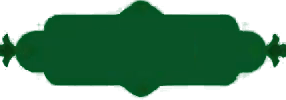
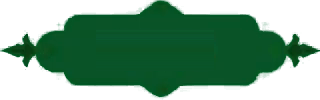
Match source timer frame and score panels

diff --git a/tests/solitaire.spec.js b/tests/solitaire.spec.js
@@ -65,7 +65,7 @@ test('mobile deal, stock draw, undo, and a legal hinted move', async ({ page }) 
   await expect(page.locator('.time-stat')).toHaveAttribute('aria-label', 'Time');
   await expect(page.locator('.timer-frame-source')).toBeVisible();
   await expect(page.locator('.timer-frame-vector')).toHaveCSS('display', 'none');
-  await expect.poll(() => page.locator('.timer-frame-source').evaluate((image) => [image.complete, image.naturalWidth, image.naturalHeight])).toEqual([true, 286, 100]);
+  await expect.poll(() => page.locator('.timer-frame-source').evaluate((image) => [image.complete, image.naturalWidth, image.naturalHeight])).toEqual([true, 320, 100]);
   await expect.poll(() => page.locator('.stat-digit').evaluateAll((images) => images.every((image) => image.complete && image.naturalWidth === 21 && image.naturalHeight === 31))).toBe(true);
   const timerDigitHashes = await page.evaluate(async () => Promise.all(Array.from({ length: 10 }, async (_, digit) => {
     const response = await fetch(`/assets/ui/timer-digit-${digit}.png`);
@@ -319,10 +319,12 @@ async function runSourceOpeningReplay(page) {
     audio.play = (cue) => { window.audioCues.push(cue); return play(cue); };
   });
   const sourceTimerFrame = await page.locator('.timer-frame-source').boundingBox();
-  expect(sourceTimerFrame.x).toBeCloseTo(169.5, 1);
+  expect(sourceTimerFrame.x).toBeCloseTo(160, 1);
   expect(sourceTimerFrame.y).toBeCloseTo(145.2, 1);
-  expect(sourceTimerFrame.width).toBe(143);
+  expect(sourceTimerFrame.width).toBe(160);
   expect(sourceTimerFrame.height).toBe(50);
+  const sourceScorePanelColors = await page.locator('.stat:not(.time-stat)').evaluateAll((panels) => panels.map((panel) => getComputedStyle(panel).backgroundColor));
+  expect(sourceScorePanelColors).toEqual(['rgb(15, 95, 49)', 'rgb(15, 95, 49)']);
 
   const dragMove = async (sourcePile, sourceIndex, targetPile, targetIndex, dropCardOffset = 4) => {
     const sourceBox = await page.locator(`.pile-column[data-pile="${sourcePile}"] .playing-card[data-index="${sourceIndex}"]`).boundingBox();
@@ -490,6 +492,9 @@ test.describe('source-sized visual comparison', () => {
 
   test('source opening replay matches the 20-second score, move count, and exposed cards', async ({ page }) => {
     await runSourceOpeningReplay(page);
+    const timerTextBox = await page.locator('#time-value').boundingBox();
+    expect(timerTextBox.width).toBeCloseTo(51.5, 1);
+    expect(timerTextBox.height).toBeCloseTo(15.5, 1);
   });
 
   test('source Settings controls, support links, and scroll match the captured page', async ({ page }) => {
@@ -1695,7 +1700,7 @@ test('the board fits a 320px phone and the installed shell loads offline', async
   await page.goto('/');
   await page.evaluate(() => navigator.serviceWorker.ready);
   const cacheNames = await page.evaluate(() => caches.keys());
-  expect(cacheNames).toContain('solitaire-master-v63');
+  expect(cacheNames).toContain('solitaire-master-v64');
   await expect.poll(() => page.evaluate(async () => {
     const response = await fetch('/assets/audio/auto-collect-reference.wav');
     return response.ok && response.headers.get('content-type') === 'audio/x-wav';

diff --git a/src/styles.css b/src/styles.css
@@ -98,6 +98,8 @@ button:focus-visible { outline: 3px solid #f4d67a; outline-offset: 2px; }
 body[data-theme='felt'] .menu-button { border: 0; background: transparent; }
 body[data-theme='felt'] .menu-source-art { display: block; width: 100%; height: 100%; object-fit: fill; pointer-events: none; user-select: none; -webkit-user-drag: none; }
 body[data-theme='felt'] .menu-theme-icon { display: none; }
+body[data-theme='felt'] .stat:not(.time-stat) { background: rgb(15, 95, 49); }
+body[data-theme='felt'] .scorebar-flourish { visibility: hidden; }
 @media (min-resolution: 1.5dppx) {
   body[data-theme='felt'] .menu-source-art { width: 36px; height: 37px; transform: translate(-.5px, -.5px); }
 }
@@ -125,6 +127,8 @@ body[data-theme='felt'] .menu-theme-icon { display: none; }
 .timer-frame-vector { display: block; }
 body[data-theme='felt'] .timer-frame-source { display: block; }
 body[data-theme='felt'] .timer-frame-vector { display: none; }
+body[data-theme='felt'] .timer-frame-source { width: calc(100% + 56px); transform: translateX(calc(-50% - 1px)); }
+body[data-theme='felt'] #time-value { width: calc((100% + 56px) * .321875); }
 .timer-frame-shape { fill: rgba(18, 53, 25, .82); stroke: rgba(8, 40, 28, .52); stroke-width: 2; }
 .timer-frame-detail { fill: none; stroke: rgba(8, 72, 47, .82); stroke-width: 2.4; stroke-linecap: round; stroke-linejoin: round; }
 .timer-frame-jewel { fill: #165438; stroke: rgba(8, 40, 28, .62); stroke-width: 1.5; }

diff --git a/tools/extract_timer_frames.swift b/tools/extract_timer_frames.swift
@@ -25,7 +25,7 @@ for requestedTime in stride(from: start, through: end, by: step) {
         at: CMTime(seconds: requestedTime, preferredTimescale: 60_000),
         actualTime: &actualTime
     )
-    guard let timer = frame.cropping(to: CGRect(x: 340, y: 290, width: 286, height: 100)) else {
+    guard let timer = frame.cropping(to: CGRect(x: 320, y: 290, width: 320, height: 100)) else {
         throw NSError(domain: "TimerFrame", code: 1, userInfo: [NSLocalizedDescriptionKey: "Timer crop is outside the source frame"])
     }
     let png = NSBitmapImageRep(cgImage: timer).representation(using: .png, properties: [:])!

diff --git a/sw.js b/sw.js
@@ -1,4 +1,4 @@
-const CACHE = 'solitaire-master-v63';
+const CACHE = 'solitaire-master-v64';
 const CACHE_PREFIX = 'solitaire-master-v';
 const cardRanks = ['ace', '2', '3', '4', '5', '6', '7', '8', '9', '10', 'jack', 'queen', 'king'];
 const cardSuits = ['spades', 'hearts', 'diamonds', 'clubs'];

diff --git a/tools/extract_timer_glyphs.py b/tools/extract_timer_glyphs.py
@@ -21,7 +21,7 @@ SAMPLES = {
     "9": (695, 4),
     ":": (20, 2),
 }
-SLOT_X = (90, 114, 139, 147, 172)
+SLOT_X = (110, 134, 159, 167, 192)
 SLOT_WIDTH = (21, 21, 4, 21, 21)
 TEXT_Y = 34
 TEXT_HEIGHT = 31
@@ -35,8 +35,8 @@ def timer_frame(directories: list[Path], timestamp: int) -> Image.Image:
     if any(frame.read_bytes() != matches[0].read_bytes() for frame in matches[1:]):
         raise ValueError(f"Duplicate source frames for {timestamp}s differ: {matches}")
     image = Image.open(matches[0]).convert("RGB")
-    if image.size != (286, 100):
-        raise ValueError(f"{matches[0]} has size {image.size}, expected 286×100")
+    if image.size != (320, 100):
+        raise ValueError(f"{matches[0]} has size {image.size}, expected 320×100")
     return image
 
 
@@ -58,8 +58,8 @@ def main() -> None:
     args = parser.parse_args()
 
     base = Image.open(args.base).convert("RGBA")
-    if base.size != (286, 100):
-        raise ValueError(f"{args.base} has size {base.size}, expected 286×100")
+    if base.size != (320, 100):
+        raise ValueError(f"{args.base} has size {base.size}, expected 320×100")
     args.output.mkdir(parents=True, exist_ok=True)
 
     for glyph, (timestamp, slot) in SAMPLES.items():

diff --git a/tools/extract_timer_frame_source_art.py b/tools/extract_timer_frame_source_art.py
@@ -11,11 +11,11 @@ from PIL import Image
 ROOT = Path(__file__).resolve().parents[1]
 SOURCE = ROOT / "research" / "solitaire-master" / "gameplay-opening-2025" / "keyframes" / "target-pts-153600.png"
 OUTPUT = ROOT / "assets" / "ui" / "timer-frame-source.png"
-SOURCE_RECT = (340, 290, 626, 390)
+SOURCE_RECT = (320, 290, 640, 390)
 FELT = (11, 115, 63)
-TEXT_RECT = (76, 29, 194, 71)
-PANEL_SAMPLE_LEFT = range(54, 83)
-PANEL_SAMPLE_RIGHT = range(203, 233)
+TEXT_RECT = (96, 29, 214, 71)
+PANEL_SAMPLE_LEFT = range(34, 63)
+PANEL_SAMPLE_RIGHT = range(183, 213)
 
 
 def main() -> None:

diff --git a/docs/reference-study.md b/docs/reference-study.md
@@ -24,7 +24,7 @@ Keep an evidence ledger with the video URL, capture date, app version, duration,
 
 The official short now has a local source hash and a bit-verifiable frame ledger. The full-length portrait recording is also preserved locally but ignored by Git; only the selected 0–24 second opening window is under study at a time to avoid expanding the entire 17-minute source into hundreds of gigabytes of raw frames. The synchronized replica notes in the user's memory folder emphasize preserving exact source PTS, independent frame extraction, and a compact review of transition windows.
 
-The mobile visual pass compares source video frames with a 442×960 CSS viewport rendered at 2× (884×1920); the source-opening Playwright test scopes `deviceScaleFactor: 2` to that test, leaving the rest of the mobile interaction suite at its original emulation settings. A pixel-position scan showed the foundation row one output pixel below the 20-second source frame, while the tableau was already aligned. The `.top-row` was first raised by 0.5 CSS px, then tuned to `-.6875px` so all four foundation-slot origins round to the source coordinate y=429 at 2× density; E2E asserts all four `(x,y)` positions. Cards render at about 118×177 device pixels, matching the source crop's native size. At source PTS 153600, a full-width felt shadow begins 28 source pixels above the foundation row and fades over 18 pixels; its center samples at y=402, 410, and 418 are RGB (1,74,34), (8,94,47), and (10,113,62). The default-felt board now matches those samples within one RGB level at the reference's 2× scale. The four default-felt foundation placeholders now use exact 118×177 source crops, including their gold double outline and serif Ace. The default felt sample at the 20-second screen center matches source RGB (14,116,65), confirmed as the median in fourteen exact-time frames from 9–22 seconds; the [background color audit](../research/solitaire-master/felt-background-color-audit-2026-11-25/README.md) preserves the PTS and hashes. The default-felt Play/Magic/Hint/Undo row now uses a source-frame sprite at native scale in the 442×960 CSS / 2× visual replay; its transparent semantic buttons remain clickable. The 20-second source-opening replay compares all 884×1920 pixels directly. After matching the felt and refreshing the six exposed tableau faces from the AVFoundation frame, mean absolute RGB error is 4.330651 overall and 3.929363 after masking the iPhone home indicator; tableau error is 10.737537, bottom-control error is 4.502385, and empty-background error is 0.381497. The source crop and updated region results are documented in the [visual comparison](../research/solitaire-master/source-opening-visual-match-2026-11-25/README.md). The named-region results and reproducible command are recorded in [the 20-second visual comparison](../research/solitaire-master/source-opening-visual-match-2026-11-25/README.md). The iPhone home indicator is provided by iOS and is not part of the Chrome page. The default red-and-gold card back now uses 118×177 source crops for the stock and settled tableau backs: the stock uses the original baked-in `24` while unchanged, then swaps to a crop with the counter badge cleared and a live count after a draw. A vector underlay restores the card pattern beneath that badge area on tableau stacks and gallery previews. The vector back remains during deal and flip transitions. The center timer frame is a 286×100 source crop from PTS 153600, and its dynamic `MM:SS` display now uses individually captured 21×31 px source glyphs for all digits and the colon, sampled from gameplay frames where the displayed value is visible. The digit assets are scaled with the frame, and E2E verifies the source `00:07` state and offline glyph loading. All twelve court cards and forty number-card faces in the default face style now use source captures or official store screenshots. The 9♥ is a complete direct crop from source PTS 4623360 (301s), with its extraction origin and file hashes in [the card asset notes](../assets/cards/README.md). Some icon line shapes, exact proprietary backgrounds, transition curves, and soundtrack still need clean original assets or source-quality references.
+The mobile visual pass compares source video frames with a 442×960 CSS viewport rendered at 2× (884×1920); the source-opening Playwright test scopes `deviceScaleFactor: 2` to that test, leaving the rest of the mobile interaction suite at its original emulation settings. A pixel-position scan showed the foundation row one output pixel below the 20-second source frame, while the tableau was already aligned. The `.top-row` was first raised by 0.5 CSS px, then tuned to `-.6875px` so all four foundation-slot origins round to the source coordinate y=429 at 2× density; E2E asserts all four `(x,y)` positions. Cards render at about 118×177 device pixels, matching the source crop's native size. At source PTS 153600, a full-width felt shadow begins 28 source pixels above the foundation row and fades over 18 pixels; its center samples at y=402, 410, and 418 are RGB (1,74,34), (8,94,47), and (10,113,62). The default-felt board now matches those samples within one RGB level at the reference's 2× scale. The four default-felt foundation placeholders now use exact 118×177 source crops, including their gold double outline and serif Ace. The default felt sample at the 20-second screen center matches source RGB (14,116,65), confirmed as the median in fourteen exact-time frames from 9–22 seconds; the [background color audit](../research/solitaire-master/felt-background-color-audit-2026-11-25/README.md) preserves the PTS and hashes. The default-felt Play/Magic/Hint/Undo row now uses a source-frame sprite at native scale in the 442×960 CSS / 2× visual replay; its transparent semantic buttons remain clickable. The 20-second source-opening replay compares all 884×1920 pixels directly. The Score and Moves panels now use the source median fill `(15,95,49)`, and the timer uses a 320×100 crop from source PTS 153600 spanning `(320,290,640,390)` so the full side leaf ornaments are visible. The header MAE falls from 6.086404 to 3.439880; score and moves regions fall from 15.878264 to 7.972357 and 16.493504 to 7.465659. The latest full-frame MAE is 3.799156, or 3.397868 after masking the iPhone home indicator; tableau is 9.440155, bottom controls 4.502385, and empty background 0.263135. The source crop and updated region results are documented in the [visual comparison](../research/solitaire-master/source-opening-visual-match-2026-11-25/README.md). The iPhone home indicator is provided by iOS and is not part of the Chrome page. The default red-and-gold card back uses 118×177 source crops for the stock and settled tableau backs: the stock uses the original baked-in `24` while unchanged, then swaps to a crop with the counter badge cleared and a live count after a draw. A vector underlay restores the card pattern beneath that badge area on tableau stacks and gallery previews. The vector back remains during deal and flip transitions. The complete timer frame is a 320×100 source crop from PTS 153600, and its dynamic `MM:SS` display uses individually captured 21×31 px source glyphs for all digits and the colon, sampled from gameplay frames where the displayed value is visible. The digit assets are scaled with the frame, and E2E verifies the source `00:07` state and offline glyph loading. All twelve court cards and forty number-card faces in the default face style use source captures or official store screenshots. The 9♥ is a complete direct crop from source PTS 4623360 (301s), with its extraction origin and file hashes in [the card asset notes](../assets/cards/README.md). Some icon line shapes, exact proprietary backgrounds, transition curves, and soundtrack still need clean original assets or source-quality references.
 
 For audio, first obtain a clean gameplay recording with music and game effects audible, then keep a timestamped action log aligned to video. Extract audio without rebasing its source timeline, listen to short event windows, and compare duration, pitch contour, attack/decay, noise texture, stereo position, and music loop period. Keep one sample per event (tap, draw, flip, move, invalid drop, foundation, win) and compare browser PCM capture separately from the source. A successful `AudioContext.resume()`, cue scheduling, PCM output, and audible phone-speaker playback are separate checks; passing the first two alone does not prove the last two.
 

diff --git a/research/solitaire-master/source-opening-visual-match-2026-11-25/README.md b/research/solitaire-master/source-opening-visual-match-2026-11-25/README.md
@@ -36,21 +36,27 @@ python3 tools/compare_screenshots.py \
   --region foundation_stock=0,400,884,240 \
   --region tableau=0,640,884,410 \
   --region empty_bg=0,1050,884,550 \
-  --region bottom_controls=0,1600,884,320
+  --region bottom_controls=0,1600,884,320 \
+  --region score=105,295,215,100 \
+  --region timer=310,285,340,105 \
+  --region moves=640,295,215,100
 ```
 
 ## Results
 
 | Region | Mean absolute RGB error |
 | --- | ---: |
-| Full image | 4.304038 |
-| Full image with the iOS home indicator masked | 3.902749 |
-| Header | 6.086404 |
+| Full image | 3.799156 |
+| Full image with the iOS home indicator masked | 3.397868 |
+| Header | 3.439880 |
 | Foundations and stock | 3.910043 |
-| Tableau | 10.618841 |
-| Empty background | 0.377074 |
+| Tableau | 9.440155 |
+| Empty background | 0.263135 |
 | Bottom controls | 4.502385 |
+| Score panel | 7.972357 |
+| Timer panel | 4.009655 |
+| Moves panel | 7.465659 |
 
[2 lines of base64/hex data omitted]
 
 The source menu crop is 72×74 pixels and was previously squeezed into a 72×72 box. It now renders at 36×37 CSS pixels with a half-pixel offset in the 2× source replay. The menu crop remains aligned at its recorded origin. The source tableau card origins are `(8, 133, 258, 383, 508, 633, 758)` at 884×1920, and the four empty foundations begin at `(8,429)`, `(133,429)`, `(258,429)`, and `(383,429)`. The E2E replay checks those origins, the menu position and size, and the exact felt gradient color. This remains a measured comparison of one static frame.

diff --git a/assets/ui/README.md b/assets/ui/README.md
@@ -10,7 +10,7 @@ The source-frame crops are part of the local ignored review derivatives. Regener
 
 `menu-source.png`, `stat-crown.png`, and `stat-moves.png` come from PTS 307200 (20s), where the values are Score 30 and Moves 3. The menu crop includes its 72×74 circle; the crown and mint move arrows are isolated into transparent PNGs from source rectangles `(119,317,52,40)` and `(653,316,34,42)`. The default felt menu uses its source crop, while alternate themes retain the vector menu. At 2× density, the menu crop renders at its native 36×37 CSS size and is offset by −0.5 CSS px to align its source origin; the source-sized browser test checks its origin and dimensions. Score and move values render with the same 21×31 source numeral sprites as the timer, with hidden live text retained for accessibility. Regenerate the icon crops with `python3 tools/extract_statusbar_source_art.py`.
 
-`timer-frame-source.png` is a 286×100 crop from PTS 153600 (10s), source rectangle `(340,290,626,390)`. Its `00:00` digits are alpha-keyed as separate glyphs in `timer-digit-0.png` through `timer-digit-9.png` and `timer-colon.png`; the sprites preserve the source font's 21×31 px numeral cells, exact colon shape, and spacing. The glyph source readings were checked against their full timer crops: `0` at 10s (`00:00`), `1` at 30s (`00:17`), `2` at 15s (`00:02`), `3` at 43s (`00:30`), `4` at 380s (`00:45`), `5` at 370s (`00:35`), `6` at 19s (`00:06`), `7` at 20s (`00:07`), `8` at 525s (`00:08`), and `9` at 695s (`00:09`). The earlier mapping mistakenly sampled `3` and `6` from the 100-second frame, which actually reads `01:27`; those two sprites are corrected. All assets are in the service-worker shell cache and render with a text equivalent for accessibility. Alternate backgrounds retain the vector frame but use the same captured digits.
+`timer-frame-source.png` is a 320×100 crop from PTS 153600 (10s), source rectangle `(320,290,640,390)`. It includes the complete left and right leaf ornaments around the timer plate; the frame's `00:00` digits are alpha-keyed as separate glyphs in `timer-digit-0.png` through `timer-digit-9.png` and `timer-colon.png`. The sprites preserve the source font's 21×31 px numeral cells, exact colon shape, and spacing. The glyph source readings were checked against their full timer crops: `0` at 10s (`00:00`), `1` at 30s (`00:17`), `2` at 15s (`00:02`), `3` at 43s (`00:30`), `4` at 380s (`00:45`), `5` at 370s (`00:35`), `6` at 19s (`00:06`), `7` at 20s (`00:07`), `8` at 525s (`00:08`), and `9` at 695s (`00:09`). The earlier mapping mistakenly sampled `3` and `6` from the 100-second frame, which actually reads `01:27`; those two sprites are corrected. All assets are in the service-worker shell cache and render with a text equivalent for accessibility. Alternate backgrounds retain the vector frame but use the same captured digits.
 
 Rebuild the timer sprites from the source recording, preserving the requested and decoded frame times:
 
@@ -20,7 +20,7 @@ swift tools/extract_timer_frames.swift research/solitaire-master/source-videos/g
 python3 tools/extract_timer_glyphs.py /tmp/solitaire-timer-frames-5s /tmp/solitaire-timer-frames-19-43s
 ```
 
-`extract_timer_frames.swift` uses AVFoundation with zero time tolerance and crops the 286×100 timer panel. `extract_timer_glyphs.py` keys the numeral pixels against the committed blank frame. The recording is third-party gameplay footage; the captures are documented visual references, not official asset files.
+`extract_timer_frames.swift` uses AVFoundation with zero time tolerance and crops the 320×100 timer panel. `extract_timer_glyphs.py` keys the numeral pixels against the committed blank frame. The recording is third-party gameplay footage; the captures are documented visual references, not official asset files.
 
 The source-frame PTS values, observed timer readings, and PNG SHA-256 hashes for every sampled glyph are recorded in [frames.csv](../../research/solitaire-master/timer-glyph-sources-2026-11-25/frames.csv) and [manifest.json](../../research/solitaire-master/timer-glyph-sources-2026-11-25/manifest.json).
 
